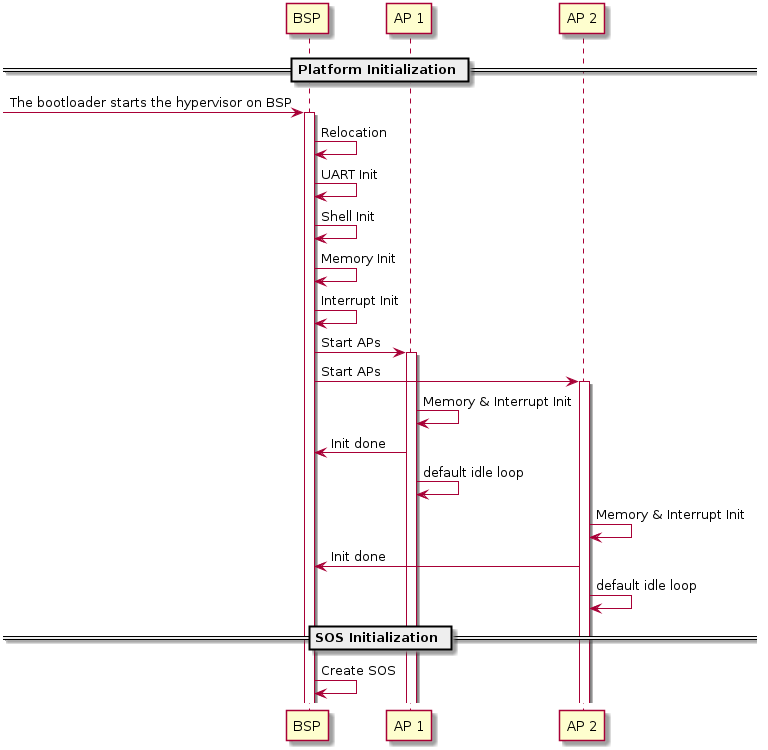
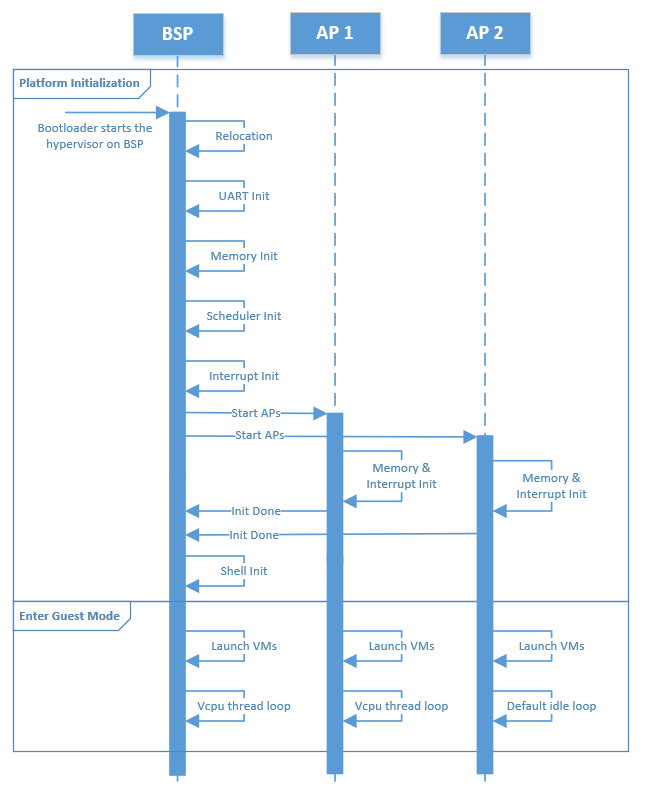
document: update HLD for hypervisor startup
updated this chapter based on latest master

Tracked-On: #3882

Changed region(s): [[0.0, 0.0, 0.9907, 1.0], [0.0, 0.7667, 0.2167, 0.7973]]

diff --git a/doc/developer-guides/hld/hv-startup.rst b/doc/developer-guides/hld/hv-startup.rst
@@ -6,13 +6,22 @@ Hypervisor Startup
 This section is an overview of the ACRN hypervisor startup.
 The ACRN hypervisor
 compiles to a 32-bit multiboot-compliant ELF file.
-The bootloader (ABL or SBL) loads the hypervisor according to the
+The bootloader (ABL/SBL or UEFI) loads the hypervisor according to the
 addresses specified in the ELF header. The BSP starts the hypervisor
 with an initial state compliant to multiboot 1 specification, after the
 bootloader prepares full configurations including ACPI, E820, etc.
 
 The HV startup has two parts: the native startup followed by
 VM startup.
+
+Multiboot Header
+****************
+
+The ACRN hypervisor is built with multiboot header, which presents
+``MULTIBOOT_HEADER_MAGIC`` and ``MULTIBOOT_HEADER_FLAGS`` at the beginning
+of the image, and it sets bit 6 in ``MULTIBOOT_HEADER_FLAGS`` which request
+bootloader passing memory mmap information(like e820 entries) through
+Multiboot Information(MBI) structure.
 
 Native Startup
 **************
@@ -36,10 +45,12 @@ description for the flow:
 -  **UART Init:** Initialize a pre-configured UART device used
    as the base physical console for HV and Service OS.
 
--  **Shell Init:** Start a command shell for HV accessible via the UART.
-
 -  **Memory Init:** Initialize memory type and cache policy, and creates
    MMU page table mapping for HV.
+
+-  **Scheduler Init:** Initialize scheduler framework, which provide the
+   capability to switch different threads(like vcpu vs. idle thread) on a
+   physical CPU, and to support CPU sharing.
 
 -  **Interrupt Init:** Initialize interrupt and exception for native HV
    including IDT and ``do_IRQ`` infrastructure; a timer interrupt
@@ -51,6 +62,8 @@ description for the flow:
    native APs (application processor). Each AP will initialize its
    own memory and interrupts, notifies the BSP on completion and
    enter the default idle loop.
+
+-  **Shell Init:** Start a command shell for HV accessible via the UART.
 
 Symbols in the hypervisor are placed with an assumed base address, but
 the bootloader may not place the hypervisor at that specified base. In
@@ -98,40 +111,63 @@ Memory
 Refer to :ref:`physical-interrupt-initialization` for a detailed description of interrupt-related
 initial states, including IDT and physical PICs.
 
-After BSP detects that all APs are up, BSP will start creating the first
-VM, i.e. SOS, as explained in the next section.
+After BSP detects that all APs are up, it will continue to enter guest mode; similar, after one AP
+complete its initialization, it will start entering guest mode as well.
+When BSP & APs enter guest mode, they will try to launch pre-defined VMs whose vBSP associated with
+this physical core; these pre-defined VMs are static configured in ``vm config`` and they could be
+pre-launched Safety VM or Service VM; the VM startup will be explained in next section.
 
 .. _vm-startup:
 
 VM Startup
 **********
 
-SOS is created and launched on the physical BSP after the hypervisor
-initializes itself.  Meanwhile, the APs enter the default idle loop
+The Service VM or a pre-launched VM is created and launched on the physical
+CPU which configured as its vBSP. Meanwhile, for the physical CPUs which
+configured as vAPs for dedicated VMs, they will enter the default idle loop
 (refer to :ref:`VCPU_lifecycle` for details), waiting for any vCPU to be
 scheduled to them.
 
 :numref:`hvstart-vmflow` illustrates a high-level execution flow of
-creating and launching a VM, applicable to both SOS and UOS. One major
-difference in the creation of SOS and UOS is that SOS is created by the
-hypervisor, while the creation of UOSes is triggered by the DM in SOS.
+creating and launching a VM, applicable to pre-launched VM, Service VM
+and User VM. One major difference in the creation of User VM and pre-launched
+/Service VM is that pre-launched/Service VM is created by the hypervisor,
+while the creation of User VMs is triggered by the DM in Service OS.
 The main steps include:
 
 -  **Create VM**: A VM structure is allocated and initialized. A unique
-   VM ID is picked, EPT is created, I/O bitmap is set up, I/O
-   emulation handlers initialized and registered and virtual CPUID
-   entries filled. For SOS an addition e820 table is prepared.
+   VM ID is picked, EPT is initialized, e820 table for this VM is prepared,
+   I/O bitmap is set up, virtual PIC/IOAPIC/PCI/UART is initialized, EPC for
+   virtual SGX is prepared, guest PM IO is set up, IOMMU for PT dev support
+   is enabled, virtual CPUID entries are filled, and vCPUs configred in this VM's
+   ``vm config`` are prepared. For post-launched User VM, the EPT page table and
+   e820 table is actually prepared by DM instead of hypervisor.
 
--  **Create vCPUs:** Create the vCPUs, assign the physical processor it
+-  **Prepare vCPUs:** Create the vCPUs, assign the physical processor it
    is pinned to, a unique-per-VM vCPU ID and a globally unique VPID,
-   and initializes its virtual lapic and MTRR. For SOS one vCPU is
-   created for each physical CPU on the platform. For UOS the DM
-   determines the number of vCPUs to be created.
+   and initializes its virtual lapic and MTRR, and its vCPU thread object got setup
+   for vcpu scheduling. The vCPU number and affinity are defined in corresponding
+   ``vm config`` for this VM.
 
--  **SW Load:** The BSP of a VM also prepares for each VM's SW
-   configuration including kernel entry address, ramdisk address,
-   bootargs, zero page etc. This is done by the hypervisor for SOS
-   while by DM for UOS.
+-  **Build vACPI:** For Service VM, the hypervisor will customize a virtual ACPI
+   table based on native ACPI table (this is in the TODO).
+   For pre-launched VM, the hypervisor will build a simple ACPI table with necessary
+   information like MADT.
+   For post-launched User VM, DM will build its ACPI table dynamically.
+
+-  **SW Load:** Prepares for each VM's SW configuration according to guest OS
+   requirement, which may include kernel entry address, ramdisk address,
+   bootargs, or zero page for launching bzImage etc.
+   This is done by the hypervisor for pre-launched or Service VM, while by DM
+   for post-launched User VMs.
+   Meanwhile, there are two kinds of boot mode - de-privilege and direct boot
+   mode. The de-privilege boot mode is combined with ACRN UEFI-stub, and only
+   apply to Service VM, which ensure native UEFI environment could be restored
+   and keep running in the Service VM. The direct boot mode is applied to both
+   pre-launched and Service VM, in this mode, the VM will start from standard
+   real or proteted mode which is not related with native environment.
+
+-  **Start VM:** The vBSP of vCPUs in this VM is kick to do schedule.
 
 -  **Schedule vCPUs:** The vCPUs are scheduled to the corresponding
    physical processors for execution.
@@ -140,10 +176,10 @@ The main steps include:
    state, execution control, entry control and exit control. It's
    the last configuration before vCPU runs.
 
--  **vCPU thread:** vCPU kicks out to run. For "Primary CPU" it will
+-  **vCPU thread:** vCPU kicks out to run. For vBSP of vCPUs, it will
    start running into kernel image which SW Load is configured; for
-   "Non-Primary CPU" it will wait for INIT-SIPI-SIPI IPI sequence
-   trigger from its "Primary CPU".
+   any vAP of vCPUs, it will wait for INIT-SIPI-SIPI IPI sequence
+   trigger from its vBSP.
 
 .. figure:: images/hld-image104.png
    :align: center
@@ -151,57 +187,70 @@ The main steps include:
 
    Hypervisor VM Startup Flow
 
-SW configuration for Service OS (SOS_VM):
+SW configuration for Service VM (bzimage SW load as example):
 
 -  **ACPI**: HV passes the entire ACPI table from bootloader to Service
-   OS directly. Legacy mode is currently supported as the ACPI table
+   VM directly. Legacy mode is currently supported as the ACPI table
    is loaded at F-Segment.
 
--  **E820**: HV passes e820 table from bootloader through multi-boot
-   information after the HV reserved memory (32M for example) is
-   filtered out.
+-  **E820**: HV passes e820 table from bootloader through zero-page
+   after the HV reserved (32M for example) and pre-launched VM owned
+   memory is filtered out.
 
 -  **Zero Page**: HV prepares the zero page at the high end of Service
-   OS memory which is determined by SOS_VM guest FIT binary build. The
+   VM memory which is determined by SOS_VM guest FIT binary build. The
    zero page includes configuration for ramdisk, bootargs and e820
-   entries. The zero page address will be set to "Primary CPU" RSI
-   register before VCPU gets run.
+   entries. The zero page address will be set to vBSP RSI register
+   before VCPU gets run.
 
--  **Entry address**: HV will copy Service OS kernel image to 0x1000000
-   as entry address for SOS_VM's "Primary CPU". This entry address will
-   be set to "Primary CPU" RIP register before VCPU gets run.
+-  **Entry address**: HV will copy Service OS kernel image to
+   kernel_load_addr, which could be got from "pref_addr" field in bzimage
+   header; the entry address will be calculated based on kernel_load_addr,
+   and will be set to vBSP RIP register before VCPU gets run.
 
-SW configuration for User OS (VMx):
+SW configuration for post-launched User VMs (OVMF SW load as example):
 
--  **ACPI**: the virtual ACPI table is built by DM and put at VMx's
+-  **ACPI**: the virtual ACPI table is built by DM and put at User VM's
    F-Segment. Refer to :ref:`hld-io-emulation` for details.
 
 -  **E820**: the virtual E820 table is built by the DM then passed to
-   the zero page. Refer to :ref:`hld-io-emulation` for details.
+   the virtual bootloader. Refer to :ref:`hld-io-emulation` for detais.
 
--  **Zero Page**: the DM prepares the zero page at location of
-   "lowmem_top - 4K" in VMx. This location is set into VMx's
-   "Primary CPU" RSI register in **SW Load**.
+-  **Entry address**: the DM will copy User OS kernel(OVMF) image to
+   OVMF_NVSTORAGE_OFFSET - normally is @(4G - 2M), and set the entry
+   address to 0xFFFFFFF0. As the vBSP will kick to run virtual bootloader
+   (OVMF) from real-mode, so its CS base will be set as 0xFFFF0000, and
+   RIP register will be set as 0xFFF0.
 
--  **Entry address**: the DM will copy User OS kernel image to 0x1000000
-   as entry address for VMx's "Primary CPU". This entry address will
-   be set to "Primary CPU" RIP register before VCPU gets run.
+SW configuration for pre-launched VMs (raw SW load as example):
+
+-  **ACPI**: the virtual ACPI table is built by the hypervisor and put at
+   this VM's F-Segment.
+
+-  **E820**: the virtual E820 table is built by the hypervisor then passed to
+   the VM according to different SW loaders. For raw SW load here, it's not
+   used.
+
+-  **Entry address**: the hypervisor will copy User OS kernel image to
+   kernel_load_addr which set by ``vm config``, and set the entry
+   address to kernel_entry_addr which set by ``vm config`` as well.
 
 Here is initial mode of vCPUs:
 
 
-+------------------------------+-------------------------------+
-|  VM and Processor Type       |    Initial Mode               |
-+=============+================+===============================+
-|  SOS        |        BSP     |   Same as physical BSP        |
-|             +----------------+-------------------------------+
-|             |        AP      |   Real Mode                   |
-+-------------+----------------+-------------------------------+
-|  UOS        |        BSP     |   Real Mode                   |
-|             +----------------+-------------------------------+
-|             |        AP      |   Real Mode                   |
-+-------------+----------------+-------------------------------+
++----------------------------------+----------------------------------------------------------+
+|  VM and Processor Type           |    Initial Mode                                          |
++=================+================+==========================================================+
+| Service VM      |        BSP     |   Same as physical BSP, or Real Mode if SOS boot w/ OVMF |
+|                 +----------------+----------------------------------------------------------+
+|                 |        AP      |   Real Mode                                              |
++-----------------+----------------+----------------------------------------------------------+
+| User VM         |        BSP     |   Real Mode                                              |
+|                 +----------------+----------------------------------------------------------+
+|                 |        AP      |   Real Mode                                              |
++-----------------+----------------+----------------------------------------------------------+
+| Pre-launched VM |        BSP     |   Real Mode or Protected Mode                            |
+|                 +----------------+----------------------------------------------------------+
+|                 |        AP      |   Real Mode                                              |
++-----------------+----------------+----------------------------------------------------------+
 
-Note that SOS is started with the same number of vCPUs as the physical
-CPUs to boost the boot-up. SOS will offline the APs right before it
-starts any UOS.
